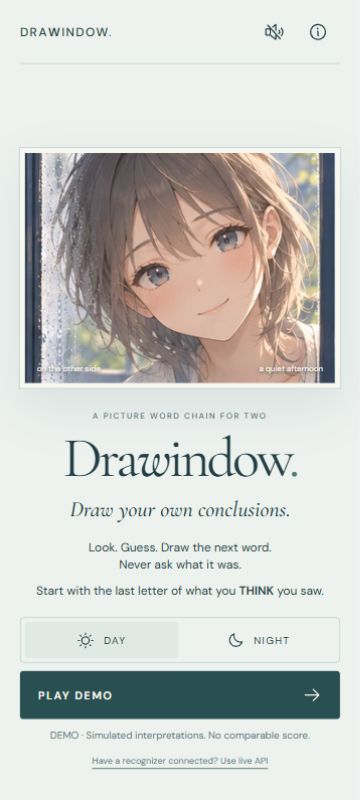
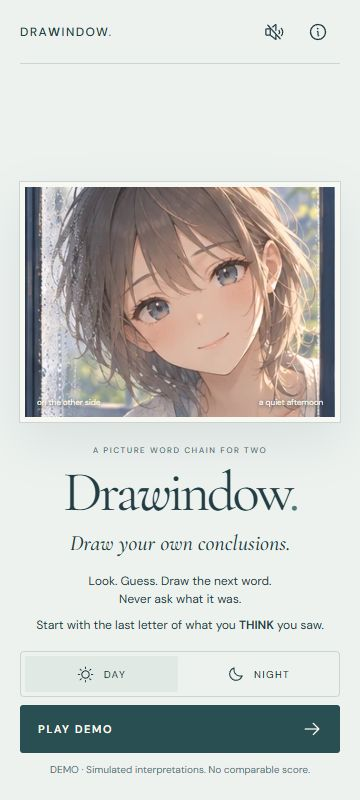
Keep unconfigured release demo-only and record live acceptance gate

diff --git a/src/App.test.tsx b/src/App.test.tsx
@@ -14,10 +14,12 @@ vi.mock('./components/SketchThumbnail', () => ({ SketchThumbnail: ({ label }: { 
 
 beforeEach(() => {
   localStorage.clear();
+  vi.stubEnv('VITE_RECOGNITION_URL', '');
+  vi.stubEnv('VITE_ENABLE_LIVE_API', 'false');
   window.scrollTo = vi.fn();
   Object.defineProperty(window, 'matchMedia', { writable: true, value: () => ({ matches: true, addEventListener: vi.fn(), removeEventListener: vi.fn() }) });
 });
-afterEach(cleanup);
+afterEach(() => { cleanup(); vi.unstubAllEnvs(); });
 
 async function finishFive() {
   fireEvent.click(screen.getByRole('button', { name: /PLAY DEMO/ }));
@@ -36,6 +38,21 @@ async function finishFive() {
 }
 
 describe('integrated UI journey with controlled presentation callbacks', () => {
+  it('offers the local demo alone until a real API endpoint is configured', () => {
+    render(<App />);
+    expect(screen.getByRole('button', { name: /PLAY DEMO/ })).toBeTruthy();
+    expect(screen.queryByRole('button', { name: /Use live API/ })).toBeNull();
+    expect(screen.getByText(/Simulated interpretations/)).toBeTruthy();
+  });
+
+  it('preserves the optional recognizer integration after endpoint configuration', () => {
+    vi.stubEnv('VITE_RECOGNITION_URL', 'https://recognizer.example/api/recognize');
+    render(<App />);
+    fireEvent.click(screen.getByRole('button', { name: /Use live API/ }));
+    expect(screen.getByRole('button', { name: /START GAME/ })).toBeTruthy();
+    expect(screen.getByText(/LIVE API/)).toBeTruthy();
+  });
+
   it('finishes five exchanges without answer leaks, preserves raw label editing, reveals nine links and restarts', async () => {
     render(<App />);
     await finishFive();

diff --git a/src/App.tsx b/src/App.tsx
@@ -28,6 +28,7 @@ function useReducedMotion() {
 }
 
 export default function App() {
+  const liveApiConfigured = Boolean(import.meta.env.VITE_RECOGNITION_URL?.trim()) || import.meta.env.VITE_ENABLE_LIVE_API === 'true';
   const [state, dispatch] = useReducer(gameReducer, undefined, () => createInitialState(savedMode()));
   const [sound, setSound] = useState(false);
   const [info, setInfo] = useState(false);
@@ -106,7 +107,7 @@ export default function App() {
         <div className="title-start">{modeButtons}
           <button className="primary start-button" onClick={start}>{sessionChoice === 'demo' ? 'PLAY DEMO' : 'START GAME'}<ArrowRight size={20} /></button>
           <p className="session-note">{sessionChoice === 'demo' ? 'DEMO · Simulated interpretations. No comparable score.' : 'LIVE API · Drawings are sent to the configured recognizer.'}</p>
-          <button className="text-button connection-toggle" onClick={() => setSessionChoice(sessionChoice === 'demo' ? 'api' : 'demo')}>{sessionChoice === 'demo' ? 'Have a recognizer connected? Use live API' : 'Return to local demo'}</button>
+          {liveApiConfigured && <button className="text-button connection-toggle" onClick={() => setSessionChoice(sessionChoice === 'demo' ? 'api' : 'demo')}>{sessionChoice === 'demo' ? 'Have a recognizer connected? Use live API' : 'Return to local demo'}</button>}
         </div>
         <p className="edition">FIVE EXCHANGES. ONE MISTED WINDOW.</p>
       </div>

diff --git a/docs/VERIFICATION.md b/docs/VERIFICATION.md
@@ -16,7 +16,9 @@ public deployment, push or jam submission during this work.
   initial whole build was correctly not reported as successful.
 - Integration: 59 → 65 → 67 tests passed as canvas/component/UI tests landed.
 - API 503 retry regression: initially reproduced, then 68 tests passed.
-- Breath-origin coverage: 69 tests passed. Final post-visual-fix run: **69/69 in
+- Breath-origin coverage: 69 tests passed. User-confirmed DEMO-first gate adds two
+  UI tests: unconfigured release exposes DEMO only; configured endpoint preserves
+  the optional recognizer integration. Final run: **71/71 in
   10 files** with `npm test`; **TypeScript + Vite production build passed**.
 - `wrangler types worker/bindings.d.ts` and `wrangler deploy --dry-run` passed.
   No files were uploaded by dry run. Local Wrangler log/registry paths were
@@ -61,18 +63,21 @@ screenshots are under `artifacts/qa/`, with the visual comparison in
 
 ## Package evidence
 
-`npm run package:itch` produced a 745,728-byte ZIP with 24 entries, root
+`npm run package:itch` produced a 745,674-byte ZIP with 24 entries, root
 `index.html`, relative asset paths, credits and licences. SHA-256:
[2 lines of base64/hex data omitted]
 Every unzipped byte matches the built input; no environment file/secret is in
 the archive. Full receipt: `artifacts/release/package-receipt.json`.
 
 The ZIP was extracted to a task-owned folder and served on a plain local static
 HTTP server. An initial loopback-only server could not be reached by the browser;
 binding the test helper to the same interface as Vite resolved it. On
-`http://localhost:5175/`, the actual archive loaded character/font assets, accepted
-a drawing and advanced to GIRL-2 in default DEMO with no returned browser errors
-or overflow. This is a package smoke test, not an actual itch.io iframe test.
+`http://localhost:5175/`, the final actual archive completed all five exchanges
+without an API, showed five naming fields only at the end, then revealed ten
+cards and nine links (6/9, BEST CHAIN 3) with explicit simulation disclosure.
+Final browser console returned no warnings/errors. Evidence:
+`artifacts/qa/archive-full-journey.json`, `archive-full-results.jpg`. This is a
+local static-package test, not an actual itch.io iframe test.
 
 ## Models actually used
 
@@ -95,6 +100,12 @@ needed for the Canvas2D specification.
    assess plausible interpretation, latency and failure recovery.
 3. Verify the real itch.io iframe origin/CORS, mobile touch device and audio
    comfort. Do not advertise validated live AI recognition until these pass.
+4. After API connection, complete a genuine live-mode five-exchange session
+   using freehand drawings, real private interpretations and all nine final
+   intended-word links. The user explicitly deferred this gate until after the
+   DEMO; fixed mock results cannot satisfy it. `DrawingRecognizer` remains the
+   stable integration boundary. Gemini is implemented; a future Jev adapter can
+   implement that interface once its actual API contract is selected/verified.
 
 There is no outstanding known blocker for the labelled local DEMO. The public
 live-recognition acceptance gate is open. The working local preview is kept on

diff --git a/docs/RECOGNITION.md b/docs/RECOGNITION.md
@@ -6,6 +6,11 @@ The shipped default is **DEMO**. Its mock returns predetermined words based on r
 
 The browser sends `POST /api/recognize` by default. A separately hosted backend can be selected with `createApiRecognizer({ endpoint: 'https://your-worker.example/api/recognize' })`; the app's `VITE_RECOGNITION_URL` build setting supplies this URL. `VITE_` variables are public. Never put a provider key in them.
 
+Until an endpoint is configured, the title offers DEMO alone. Setting a nonempty
+`VITE_RECOGNITION_URL` reveals the optional live-mode choice; for a local
+same-origin Worker, `VITE_ENABLE_LIVE_API=true` explicitly reveals it instead.
+This does not change the `DrawingRecognizer` interface or simulate a provider.
+
 The module entry point is `worker/index.ts`. Required Worker bindings:
 
 | Binding | Value |
@@ -51,5 +56,14 @@ Prepare at least 12 **real hand-drawn** neutral images, including recognizable s
 3. Review whether the guess is a plausible interpretation independently of exact intended-word agreement. Record both assessments; do not invent numeric confidence.
 4. Exercise timeout, 429, missing secret, invalid JSON, no matching template and iframe CORS failures. Confirm retry, redraw and explicit demo work without losing the drawing or revealing a word during play.
 5. Report sample count, per-sample results, latency range and unresolved failures. Keep the demo default until the owner accepts the actual results and configures quota.
+
+6. Mandatory live-mode game gate after connection: play all five exchanges with
+   actual freehand player drawings through the genuine configured recognizer.
+   Verify exactly five girl/five player entries, four real interpretation-driven
+   next-word selections, no midgame word/answer disclosure, final five intended
+   labels and nine scored adjacency links. Exercise DAY and NIGHT parity and
+   bounded failure recovery. A mock, random result, template fixture or partial
+   session cannot pass this gate. This work has not passed it because no API was
+   configured; the user explicitly chose completion of the local DEMO first.
 
 Current evidence: automated core/adapter/Worker tests exercise simulated HTTP responses and deterministic state transitions. They do not establish provider access, real sketch quality, actual latency, itch iframe compatibility, physical touch comfort or enjoyment.

diff --git a/README.md b/README.md
@@ -22,6 +22,7 @@ to draw, or press Enter for a dot. Controls also work with keyboard focus.
 Sound starts muted. DAY/NIGHT changes presentation only; there is no timer.
 The chosen mode is stored locally when browser storage is available.
 
+The unconfigured title offers only DEMO; it does not invite a broken live API.
 DEMO interpretations are a fixed disclosed simulation, independent of the
 picture. They are never labelled as real image recognition or a comparable
 score. The fifth drawing goes directly to review without an API dependency.
@@ -53,8 +54,17 @@ required before calling this validated live recognition.
 For local API development put the provider key in ignored `.dev.vars`, then
 run `npm run dev:api` alongside Vite. Never put secrets in `VITE_` variables.
 The current default is `gemini-3.5-flash-lite`, configurable on the Worker.
-`VITE_RECOGNITION_URL` optionally points to a separate Worker. A missing key
+`VITE_RECOGNITION_URL` optionally points to a separate Worker and reveals the
+live-mode choice. `VITE_ENABLE_LIVE_API=true` enables the same-origin choice for
+local integration testing. The `DrawingRecognizer` interface remains the
+exchange point for a Gemini or future Jev adapter. A missing key
 returns a real failure; it never becomes a mock without the user's DEMO choice.
+
+After connecting an API, run a complete five-exchange session in live mode using
+actual freehand player drawings. Verify genuine API interpretations privately
+select each next girl sketch by their last letter, then name the player's five
+intentions and inspect all nine links. This is a separate mandatory acceptance
+gate; the completed DEMO does not substitute for it.
 
 On restricted Windows profiles, Wrangler's local log/registry paths can be
 placed under the project before starting local development:

diff --git a/design-qa.md b/design-qa.md
@@ -4,6 +4,9 @@ final result: passed
 
 Scope: the explicitly labelled local DEMO and its responsive interface. This is
 not acceptance of real recognition quality or the public jam deployment.
+The user's final DEMO-first instruction is applied: no live-mode switch appears
+until an endpoint (or explicit local integration flag) is configured. The final
+title was recaptured, and the final ZIP completed five exchanges in the browser.
 
 ## Visual truth and comparison evidence
 
@@ -17,7 +20,7 @@ not acceptance of real recognition quality or the public jam deployment.
   `360-day-draw-guide-final.jpg`, `360-day-player-final.jpg`.
 - Additional browser views: `720-night-holding.jpg`, `720-night-results.jpg`,
   `desktop-day-holding.jpg`, `desktop-day-results.jpg`, `360-api-error.jpg`,
-  `archive-browser-smoke.jpg`.
+  `archive-browser-smoke.jpg`, `archive-full-results.jpg`.
 - Actual combined comparison opened and inspected:
   `artifacts/qa/reference-character-game.png`, 1101×800. Left: full reference
   contained into 400×800; middle: generated day character contained into 341×800;
